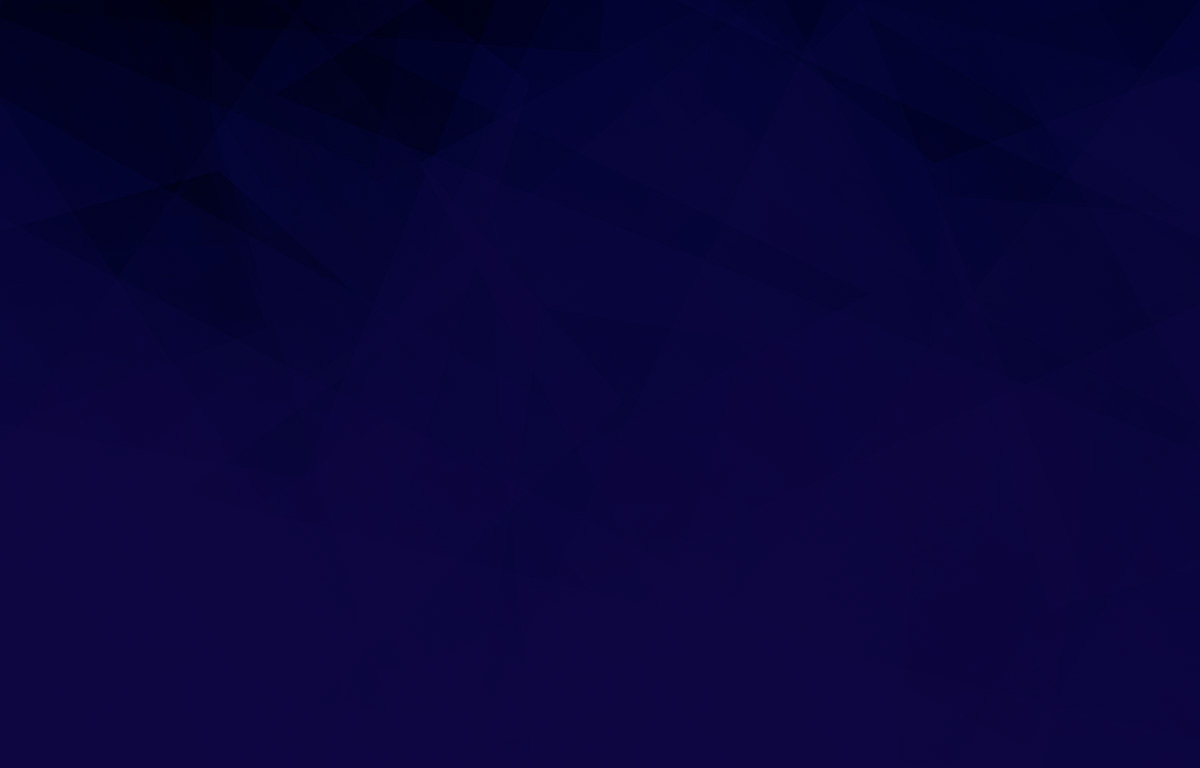
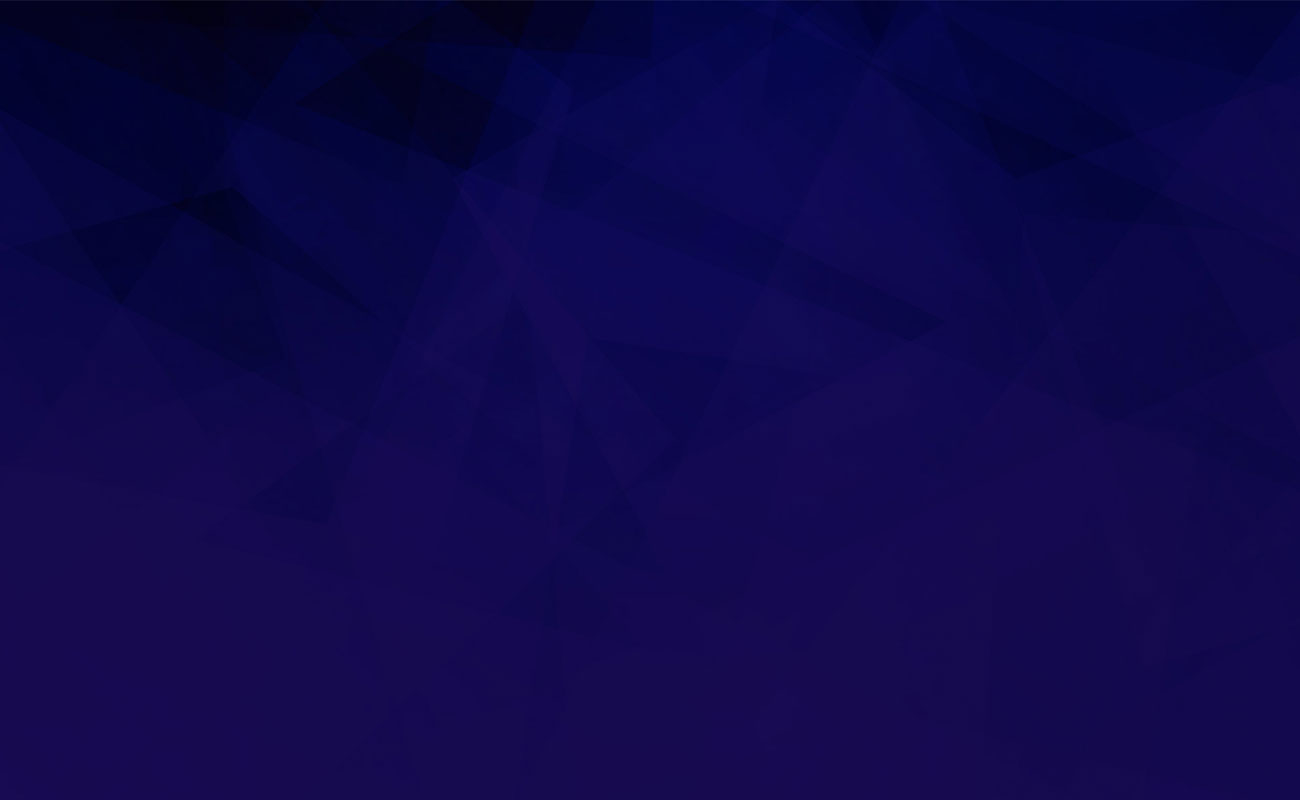
Second form added.

diff --git a/src/index.html b/src/index.html
@@ -19,7 +19,7 @@
         </div>
         <div class="row justify-content-center">
           <!-- Form 1 -->
-          <div class="col-sm-9 form">
+          <div class="col-sm-9 form1">
             <div class="websites">
               <div class="row align-items-end">
                 <div class="col-md form-website-1">
@@ -51,6 +51,40 @@
               </div>
             </div>
           </div>
+          <!-- END Form 1 -->
+          <!-- Form 2 -->
+          <div class="col-sm-9 form2">
+            <div class="websites">
+              <div class="row">
+                <div class="col form-heading text-center">
+                  <h2>Your request has been recorded</h2>
+                </div>
+              </div>
+              <div class="row justify-content-center">
+                <div class="col form-website1 text-center">
+                  <div class="website1">Website instance 1</div>
+                  <div class="address">www.dev.livesite.com</div>
+                </div>
+              </div>
+              <div class="row justify-content-center text-center">
+                <div class="col form-website2">
+                    <div class="website2">Website instance 2</div>
+                    <div class="address">www.livesite.com</div>
+                </div>
+              </div>
+              <div class="row">
+                <div class="col form-email text-center">
+                  <h2>Please check your email address to see the result: <a href="mailto:email@domain.com">email@domain.com</a></h2>
+                </div>
+              </div>
+              <div class="row">
+                <div class="col form-button text-center">
+                  <button class="btn btn-yellow">Create new comparison</button>
+                </div>
+              </div>
+            </div>
+          </div>
+          <!-- END Form 2 -->
         </div>
       </div>
     </div>

diff --git a/src/assets/scss/main.scss b/src/assets/scss/main.scss
@@ -1,11 +1,10 @@
-// Grid only from Bootstrap
+@import 'vendor';
 @import '~node_modules/minireset.css/minireset.sass';
 @import '~node_modules/bootstrap/scss/bootstrap-grid.scss';
 
 @import 'fonts';
 @import 'form';
 @import 'helpers';
-
 
 // Common
 * {
@@ -21,6 +20,7 @@ h1, h2, h3 {
   font-family: Montserrat, Arial, Helvetica, sans-serif;
 }
 
+
 // Page
 #page-main {
   .header {
@@ -28,7 +28,7 @@ h1, h2, h3 {
       background-image: url('../img/header.jpg');
       background-position: center top;
       background-repeat: no-repeat;
-      background-color: #0B0640;
+      background-color: #170A52;
       color: #FFF;
       .text {
         margin:60px 0 25px;
@@ -48,7 +48,7 @@ h1, h2, h3 {
 
         }
       }
-      .form {
+      .form1 {
         background-color: rgba(255, 255, 255, 0.15);
         padding: 40px 85px;
         margin:25px 0 60px;
@@ -114,6 +114,36 @@ h1, h2, h3 {
               flex-grow: 1;
             }
           }
+        }
+      }
+      .form2 {
+        background-color: rgba(255, 255, 255, 0.15);
+        padding: 40px 85px;
+        margin:25px 0 60px;
+        @include media-breakpoint-down(md) {
+          padding: 40px 40px;
+        }
+        @include media-breakpoint-down(xs) {
+          padding: 40px 20px;
+          margin:25px 0 0;
+        }
+        .form-heading {
+          font-size: 2rem;
+        }
+        .form-website1 {
+          margin: 20px 0 10px;
+        }
+        .form-website2 {
+          margin: 10px 0 20px;
+        }
+        .form-email {
+          font-size: 1rem;
+          a {
+            color: #FFF;
+          }
+        }
+        .form-button {
+          margin-top: 20px;
         }
       }
     }

diff --git a/src/assets/scss/_vendor.scss b/src/assets/scss/_vendor.scss
@@ -1,0 +1,15 @@
+// Custom Bootstrpa Grid
+$grid-breakpoints: (
+  xs: 0,
+  sm: 576px,
+  md: 768px,
+  lg: 992px,
+  xl: 1360px
+);
+
+$container-max-widths: (
+  sm: 540px,
+  md: 720px,
+  lg: 960px,
+  xl: 1300px
+);
